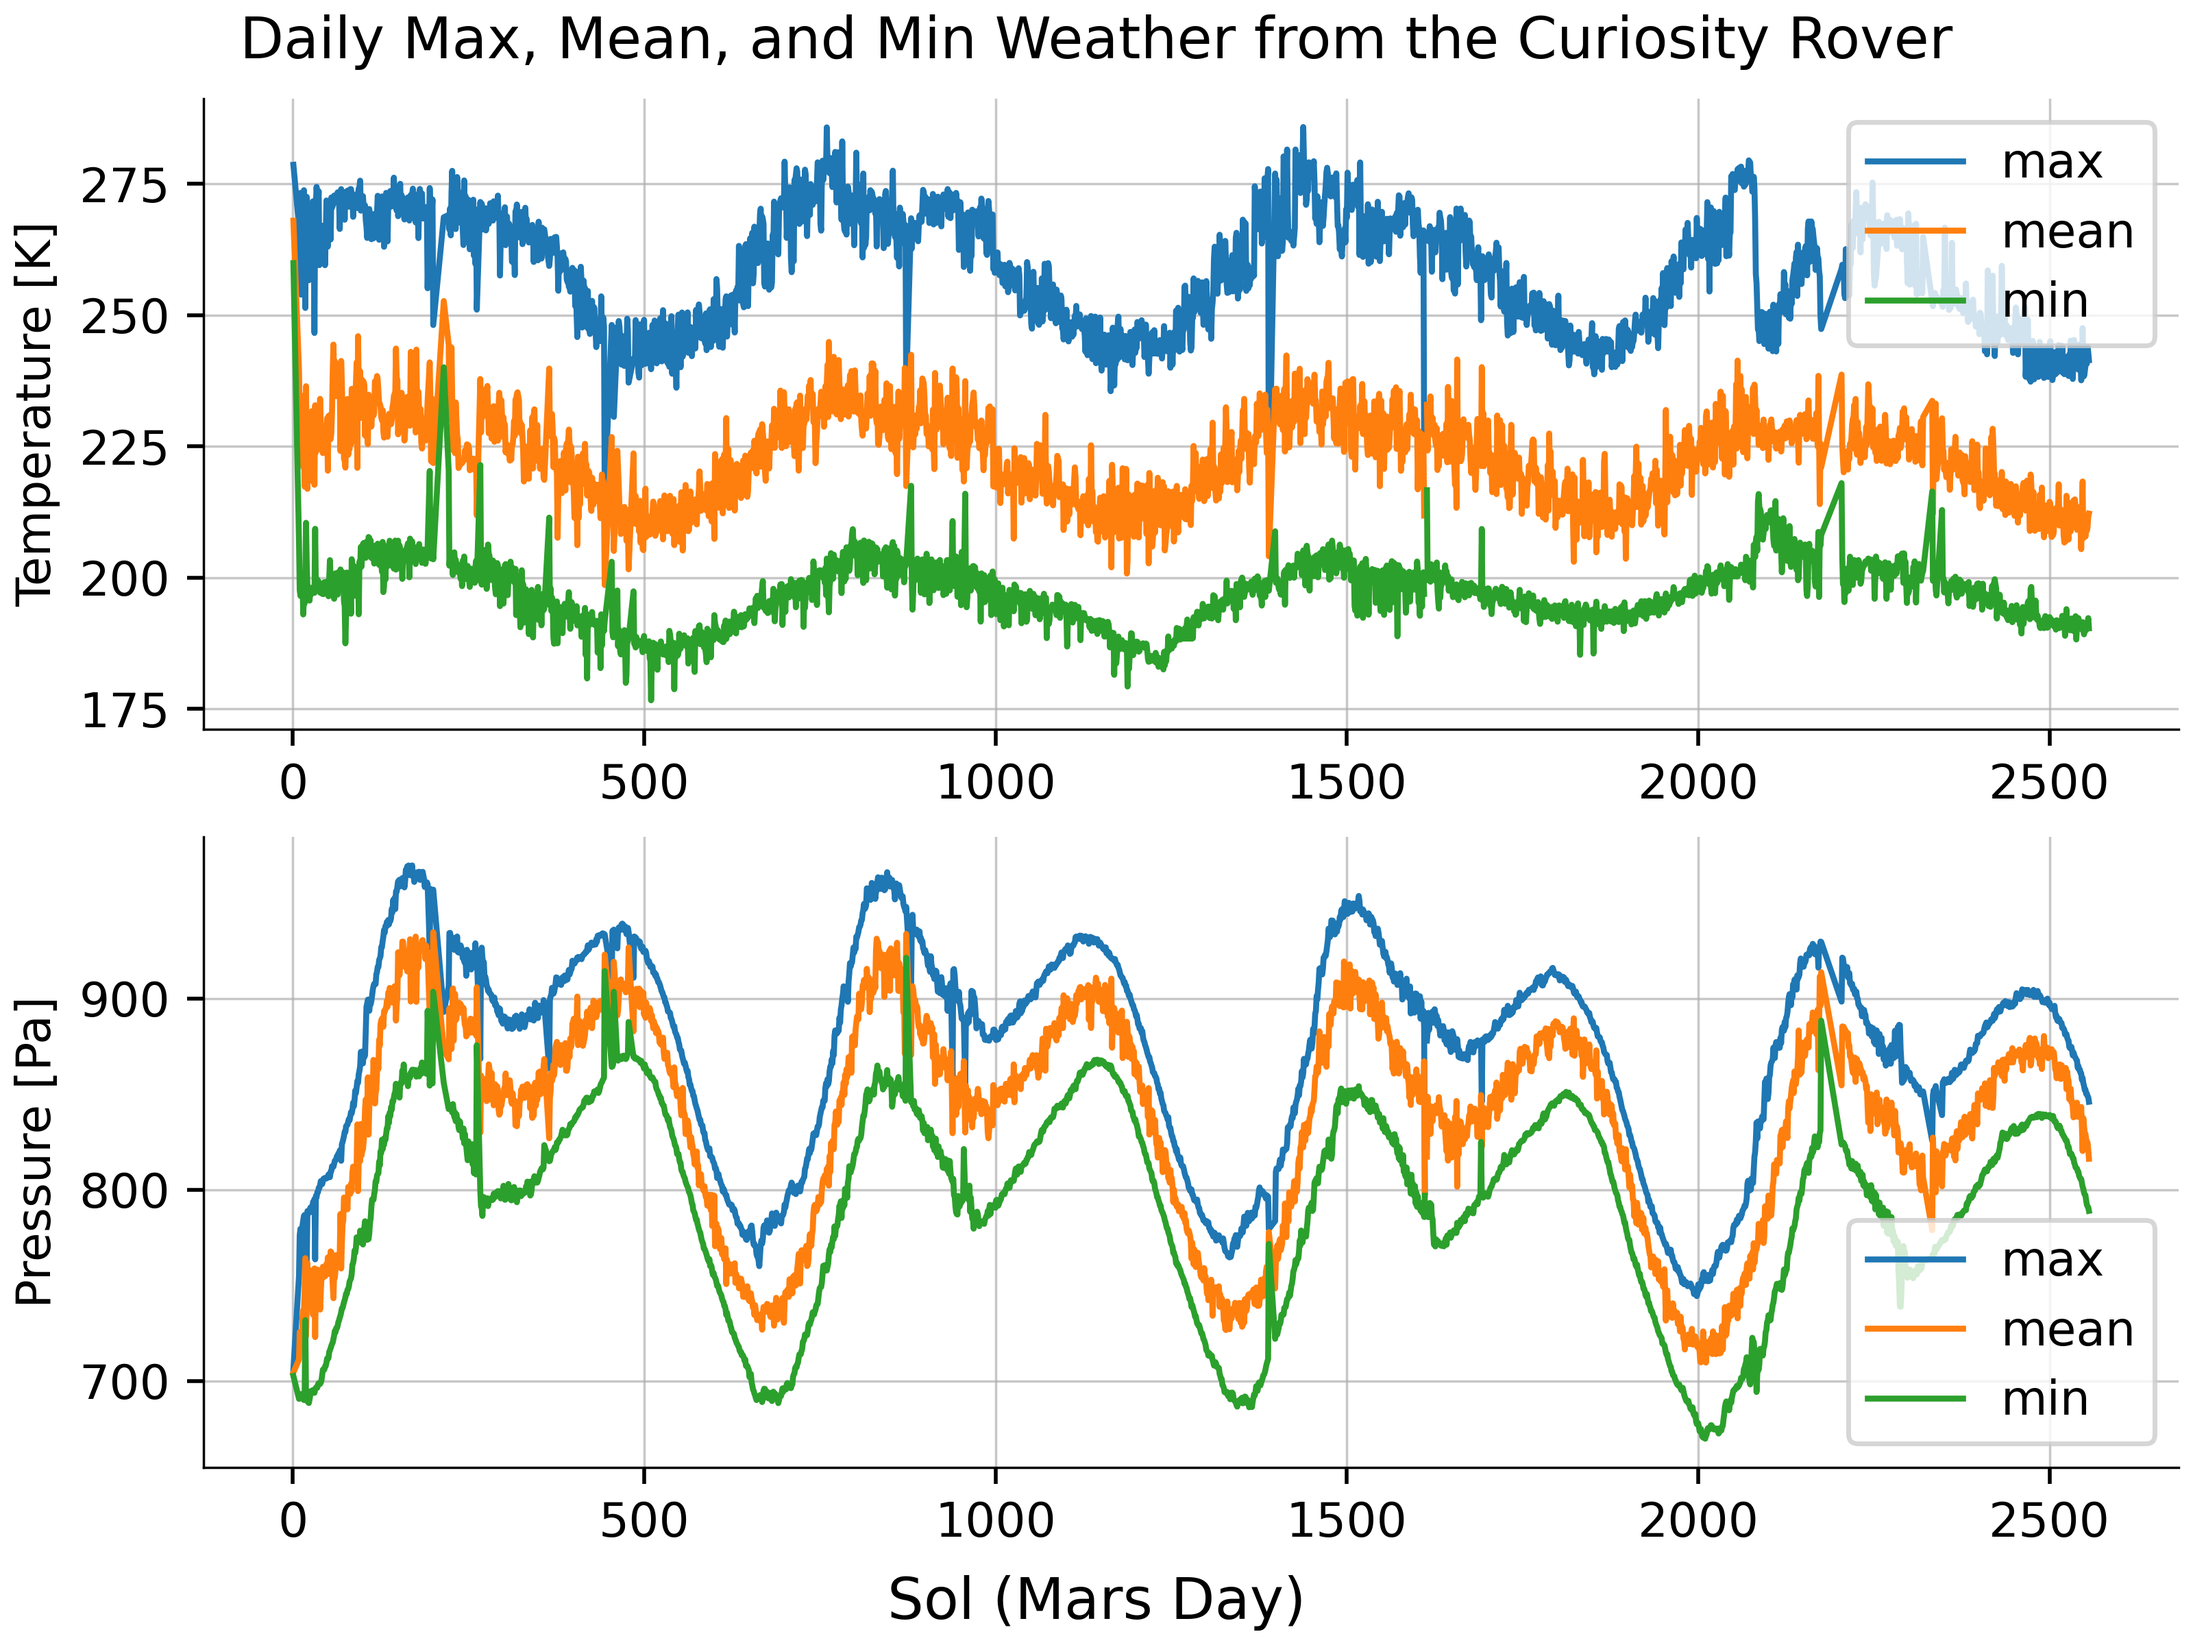
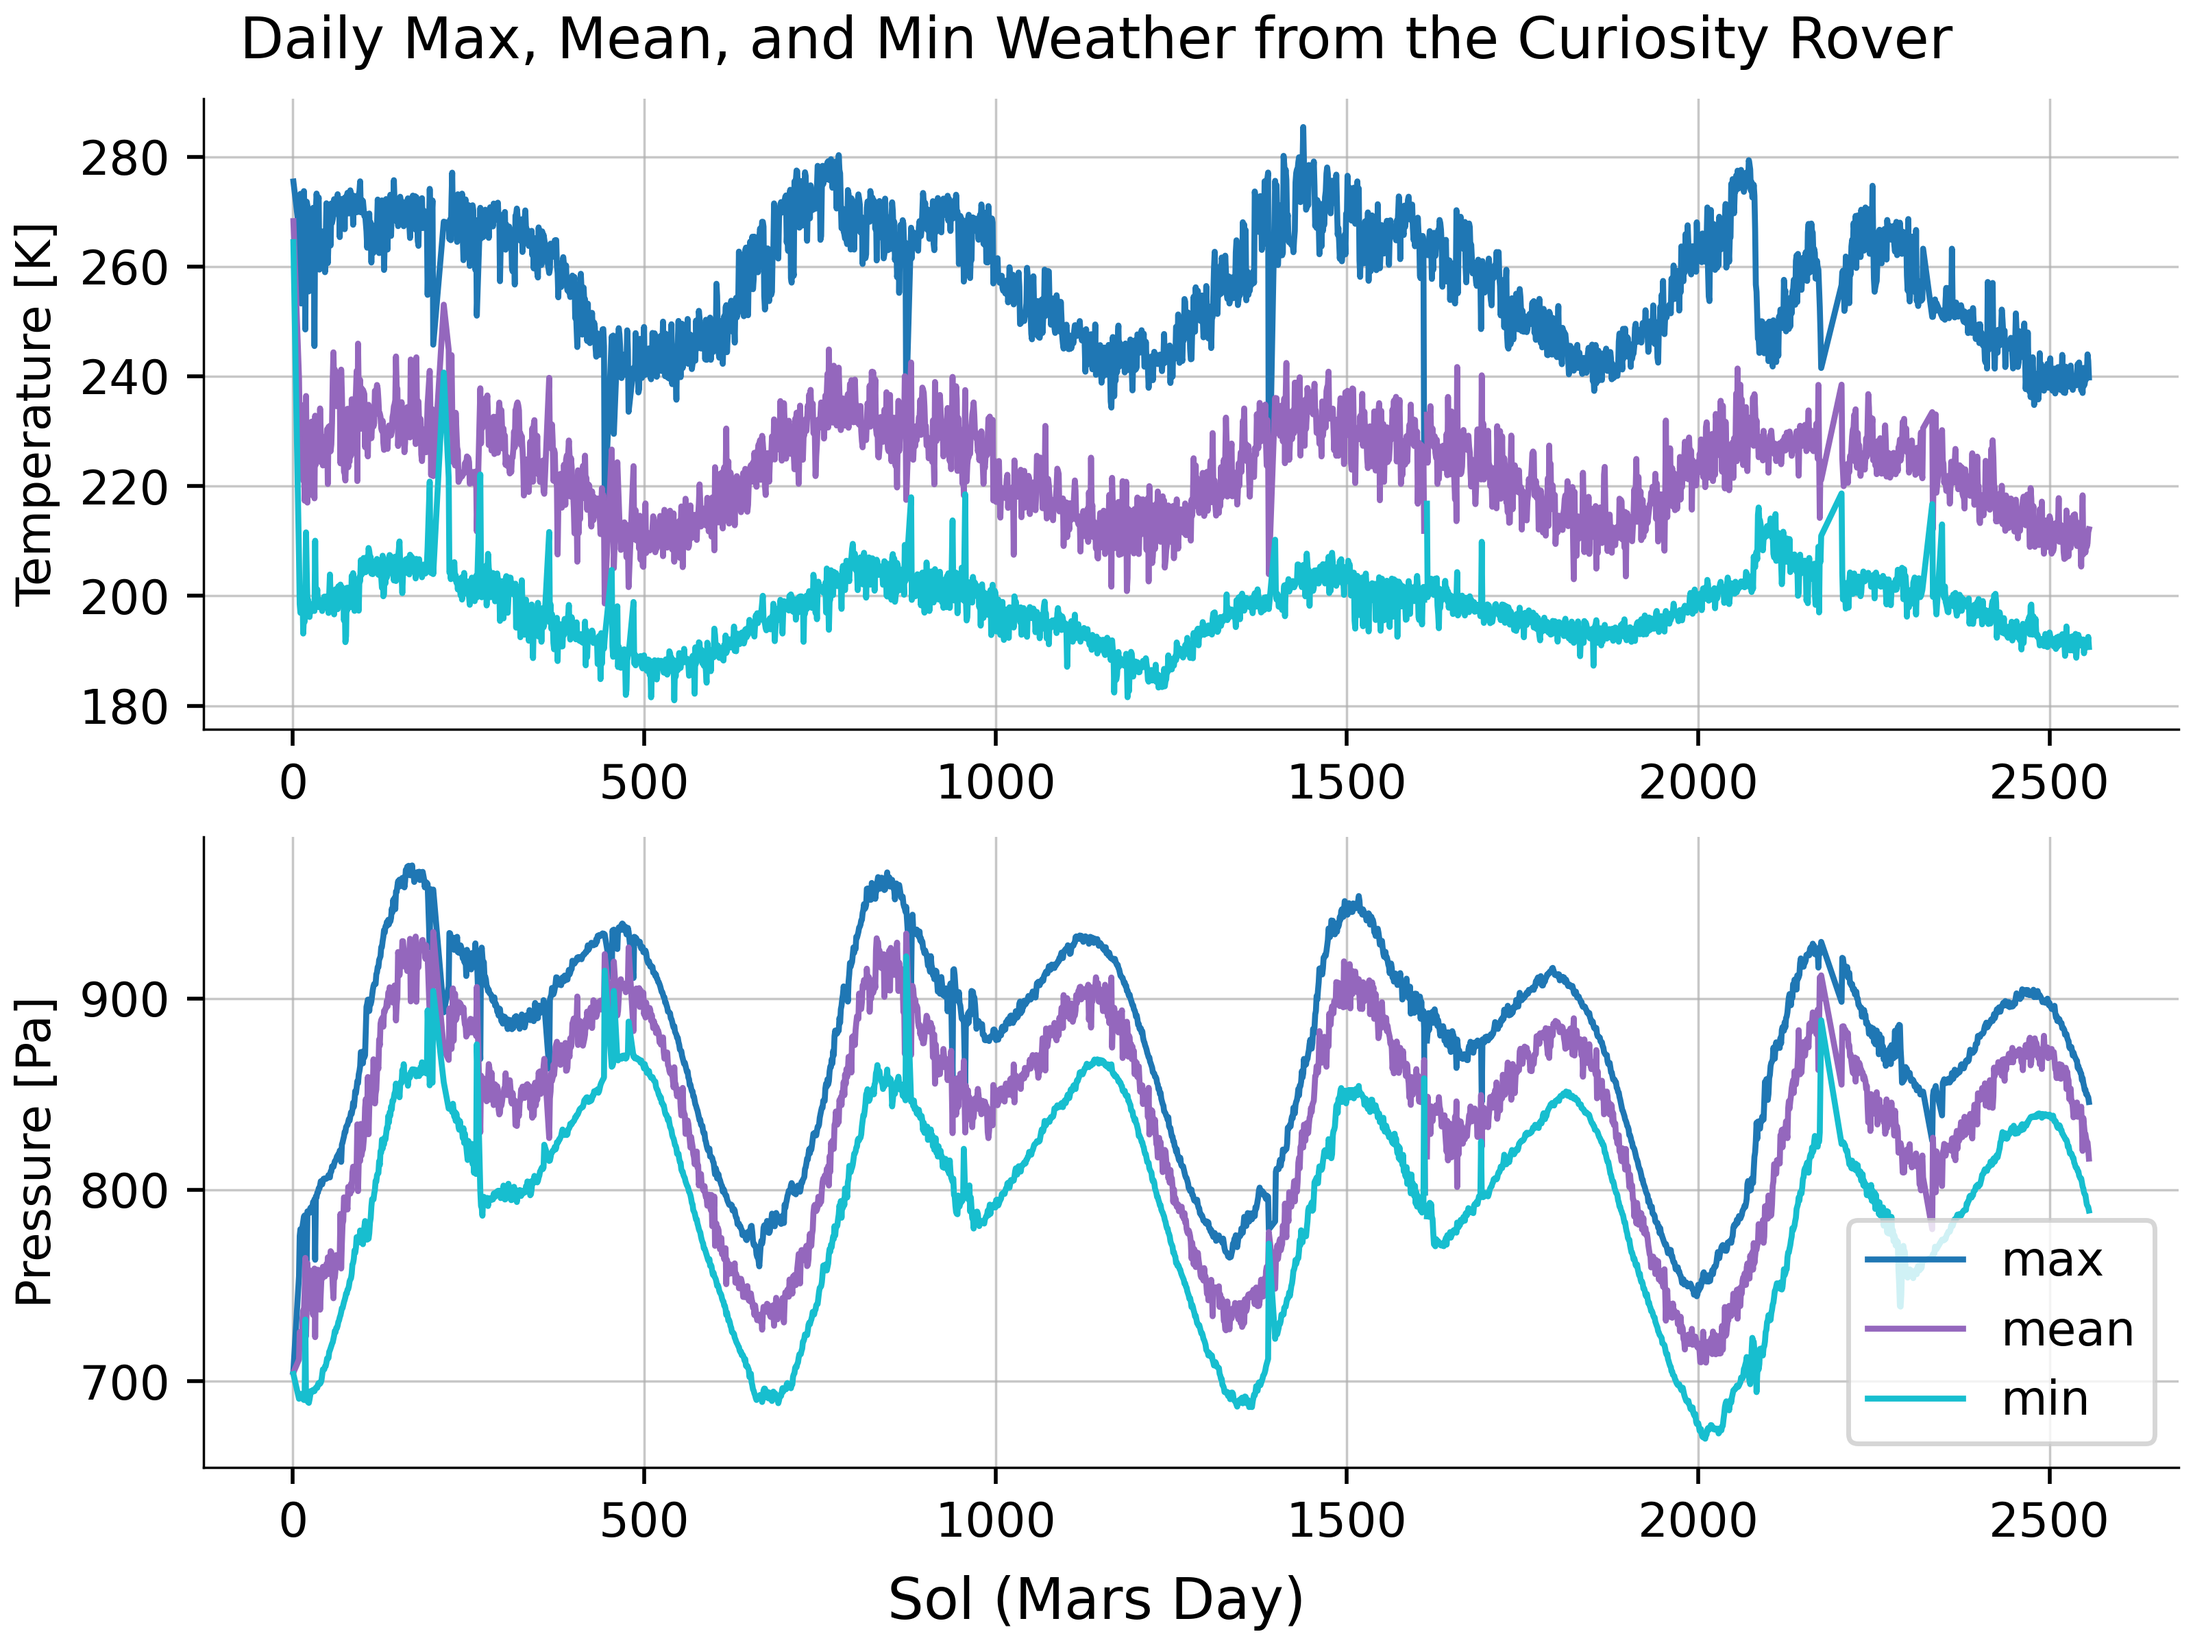
change colors

diff --git a/scripts/plot_rems.py b/scripts/plot_rems.py
@@ -24,14 +24,8 @@ def savefig(fig, fn):
 
 #load data
 df = read_feather(join(dirin, 'rems.feather'))
+df = df.iloc[::100]
 print('data loaded')
-
-#P & T histogram
-fig, ax = plt.subplots(1, 1, constrained_layout=True)
-histplot(df, x='T', y='P', cmap='magma', ax=ax)
-ax.set_xlabel('Temperature [K]')
-ax.set_ylabel('Pressure [Pa]')
-savefig(fig, 'P_T_histogram')
 
 #max, mean, min temperature and pressure
 fig, axs = plt.subplots(2, 1, constrained_layout=True)
@@ -39,15 +33,22 @@ g = df.groupby('sol')
 ma = g.max()
 me = g.mean()
 mi = g.min('sol')
-for ax, c in zip(axs, ('T', 'P')):
-    for mm, label in zip((ma, me, mi), ('max', 'mean', 'min')):
-        ax.plot(mm.index.values, mm[c], label=label)
+colors = ('C0', 'C4', 'C9')
+for ax, c in zip(axs, ('ambient_temp', 'pressure')):
+    for mm, label, color in zip((ma, me, mi), ('max', 'mean', 'min'), colors):
+        ax.plot(mm.index.values, mm[c], color=color, label=label)
 fig.supxlabel("Sol (Mars Day)")
 axs[0].set_ylabel("Temperature [K]")
-axs[0].legend()
 axs[1].set_ylabel("Pressure [Pa]")
 axs[1].legend()
 fig.suptitle("Daily Max, Mean, and Min Weather from the Curiosity Rover")
 savefig(fig, 'daily_stats')
 
-plt.show()
+#P & T histogram
+fig, ax = plt.subplots(1, 1, constrained_layout=True)
+histplot(df, x='ambient_temp', y='pressure', cmap='magma', ax=ax)
+ax.set_xlabel('Temperature [K]')
+ax.set_ylabel('Pressure [Pa]')
+savefig(fig, 'P_T_histogram')
+
+plt.close('all')
